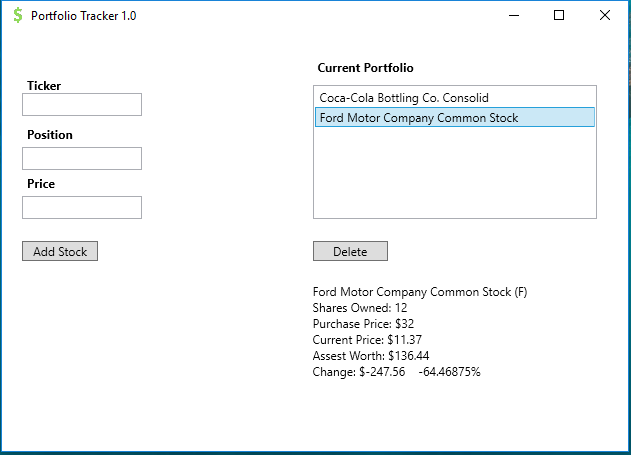
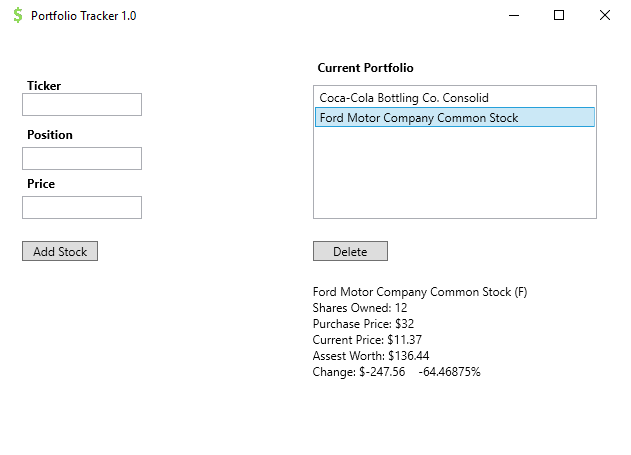
added images and changed caption under projects

Changed region(s): [[0.0, 0.0, 1.0, 1.0]]

diff --git a/index.html b/index.html
@@ -67,19 +67,19 @@
             <div class="single-project">
                 <a href="projects.html"><img src="images\portfoliotrackercover.png" alt="project photo"></a>
                 <div class="project-description">
-                    <p>Lorem ipsum dolor sit amet consectetur adipisicing elit. Sequi qui doloremque, architecto veniam dolorem vel at odio maxime pariatur saepe quam aliquam! Iste doloremque maiores nemo pariatur iusto qui officiis.</p>
+                    <p>A windows application to keep track on all your ositons in the market</p>
                 </div>
             </div>
             <div class="single-project">
                 <a href="projects.html"><img src="images\qqcover.png" alt="project photo"></a>
                 <div class="project-description">
-                    <p>Quick Quote is a tool used to produce basic quotes on construction jobs based on the cost of material, labour and travel. The application will also produce a .txt file which can be sent to the applicant via text and email.</p>
+                    <p>A console prgram used to produce basic quotes on construction jobs.</p>
                 </div>
             </div>
             <div class="single-project">
                 <a href="projects.html"><img src="images\project3cover.png" alt="project photo"></a>
                 <div class="project-description">            
-                    <p>Lorem ipsum dolor sit amet consectetur adipisicing elit. Sequi qui doloremque, architecto veniam dolorem vel at odio maxime pariatur saepe quam aliquam! Iste doloremque maiores nemo pariatur iusto qui officiis.</p>
+                    <p>Lorem ipsum dolor sit amet consectetur adipisicing elit. Sequi qui doloremque!.</p>
                 </div>
             </div>           
         </div>

diff --git a/style.css b/style.css
@@ -173,7 +173,8 @@ header{
 }
 
 .project-description{
-    text-align: center
+    text-align: center;
+    font-size: 1.3em;
 }
 
 #articles{
